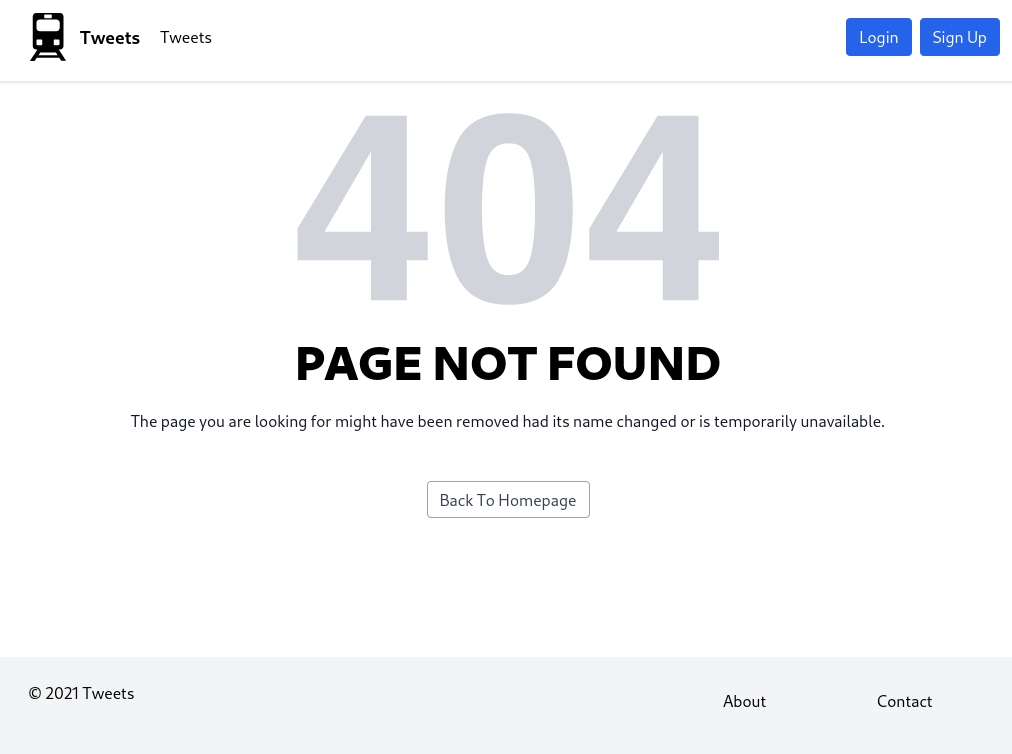
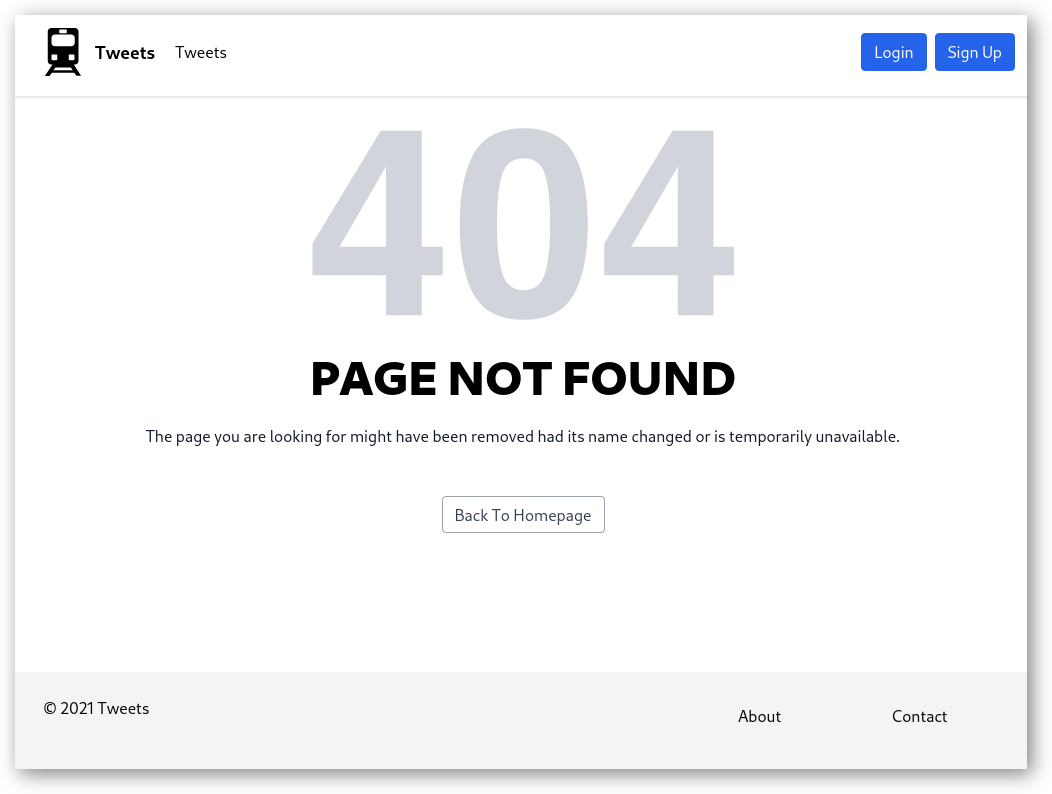
Update screenshots

diff --git a/GALLERY.md b/GALLERY.md
@@ -6,24 +6,24 @@ Schienenzeppelin comes with a nice and unobstrusive UI to get you started quickl
 
 TailwindCSS and responsive views already done. Minimalism first, so these things stay out of your way.
 
-![home](./images/home_shadow.png)
-![home_mobile](./images/mobile_shadow.png)
+![home](./images/home.png)
+![home_mobile](./images/mobile.png)
 
 ## Devise
 
 All devise forms (login, sign up, profile...) feature the same simple design.
 
-![devise](./images/login_shadow.png)
+![devise](./images/login.png)
 
 ## Scaffold
 
 Adding new views via `rails scaffold` tends to result in a ton of work to get those to look nice. Not anymore!
 
-![scaffold](images/index_shadow.png)
-![create](images/create_shadow.png)
+![scaffold](images/index.png)
+![create](images/create.png)
 
 ## Error Pages
 
 Even if things go wrong, they should look nice, right?
 
-![error](images/error_shadow.png)
+![error](images/error.png)

diff --git a/README.md b/README.md
@@ -41,7 +41,7 @@ Schienenzeppelin provides you with a ready-to-go Rails app that you can take to 
 
 The nice thing about Schienenzeppelin is that it sets you up with basic pages that don't look like garbage - allowing you to focus on other things than design.
 
-Curious what that looks like? Check out the [Gallery](GALLERY.md)!
+Curious what that looks like? Check out these [screenshots](GALLERY.md).
 
 #### Tailwind CSS
 
